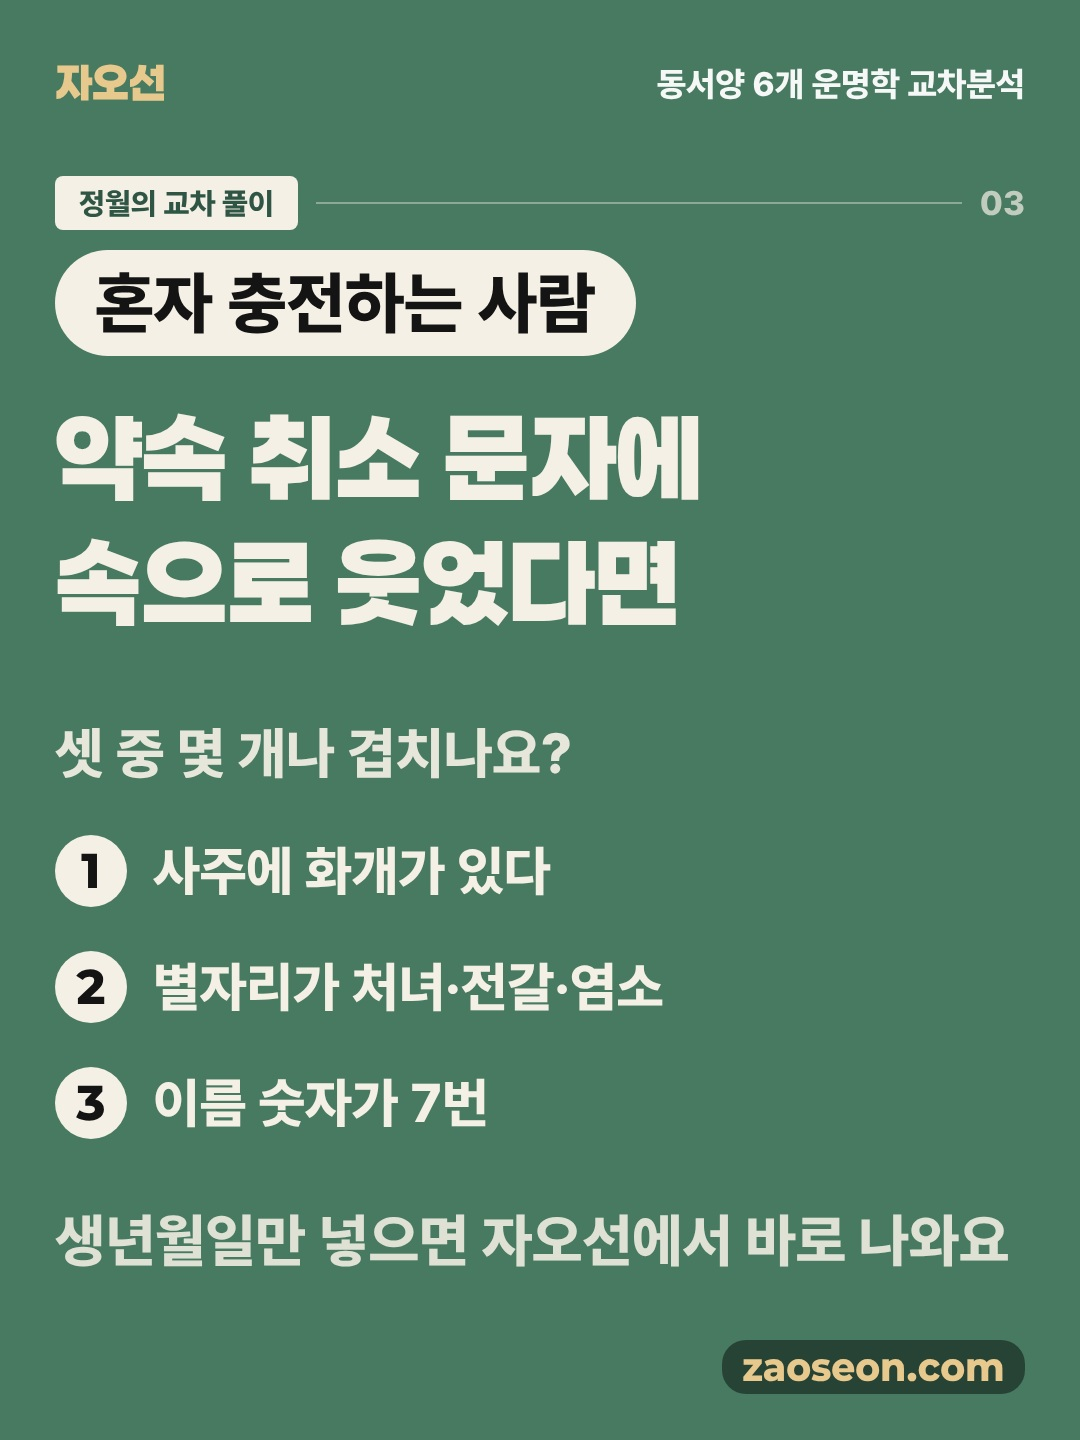
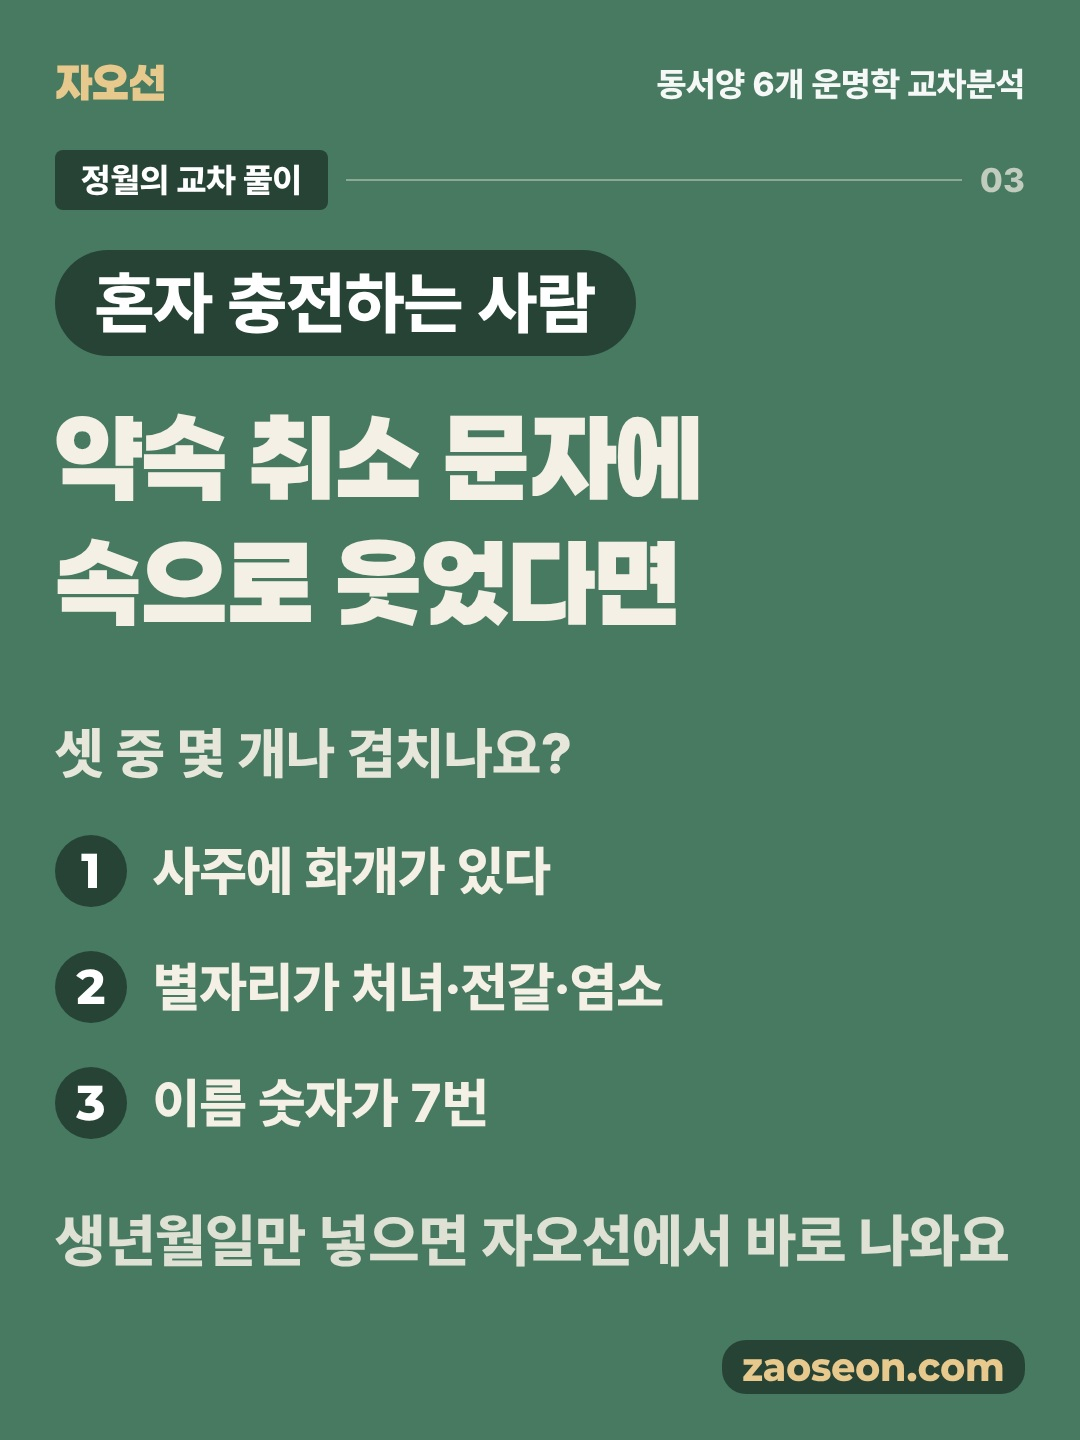
승인 카드 주소 갱신(색 강조·스하리 3단계 판)
Claude-Session: https://claude.ai/code/session_01FteCatzvvaHsxyBVK4nK62

Changed region(s): [[0.0306, 0.0938, 0.6111, 0.25], [0.0306, 0.5625, 0.1222, 0.8125], [0.8861, 0.0938, 0.9472, 0.1562]]

diff --git a/2026-igcover/build.py b/2026-igcover/build.py
@@ -64,7 +64,17 @@ def page(c, pal):
     hx = lambda v: v if isinstance(v, str) else "#%02X%02X%02X" % tuple(v)   # Ctx 는 RGB 튜플을 준다
     bg, fg, acc = hx(X.bg), hx(X.fg), hx(X.acc)
     pill_bg, pill_fg = hx(X.pill), hx(X.pillfg)
-    sub_c = acc if contrast(acc, bg) >= 3.0 else fg
+    # 하단 zaoseon.com 배지 색을 계산해서 내준다 — 눈대중으로 비슷한 색을 쓰지 않는다.
+    # brand_frame 이 어두운 판에 rgba(0,0,0,.45), 밝은 판에 rgba(255,255,255,.55) 를 얹는다.
+    def 하단배지색():
+        r, g, b = (int(bg[i:i+2], 16) for i in (1, 3, 5))
+        a, 위 = (.45, 0) if lum(bg) < .38 else (.55, 255)
+        return "#%02X%02X%02X" % tuple(round(v * (1 - a) + 위 * a) for v in (r, g, b))
+    if c.get("accent") == "하단배지": acc = 하단배지색()   # 하단 zaoseon.com 배지와 같은 색
+    elif c.get("accent"): acc = c["accent"]
+    if c.get("강조글자") == "하단배지": sub_c = 하단배지색()
+    elif c.get("강조글자"): sub_c = hx(c["강조글자"])
+    else: sub_c = acc if contrast(acc, bg) >= 3.0 else fg
 
     tz = Z["제목"]; bz = Z["본문·선택지"]
     LY0 = c.get("layout", "L1")
@@ -136,8 +146,10 @@ def page(c, pal):
         for l in c.get("subs", []):
             블록.append(("sub", l, ss0, int(ss0 * 1.5), 30))
     if c.get("items"):
-        블록.append(("items" if LY != "L8" else "numlist", c["items"], 0,
-                     118 if LY != "L8" else 90 * len(c["items"]) + 26 * (len(c["items"]) - 1), 30))
+        n_ = len(c["items"])
+        종류 = {"L8": "numlist", "L5": "steplist"}.get(LY, "items")
+        높이 = {"numlist": 90 * n_ + 26 * (n_ - 1), "steplist": 86 * n_ + 20 * (n_ - 1)}.get(종류, 118)
+        블록.append((종류, c["items"], 0, 높이, 30))
     if not c.get("subs_first"):
         for l in c.get("subs", []):
             블록.append(("sub", l, ss0, int(ss0 * 1.5), 0))
@@ -154,7 +166,9 @@ def page(c, pal):
         if kind == "big":
             parts.append(f'<div data-fit="1" data-min="110" style="position:absolute;left:{bz[0]}px;top:{y}px;'
                          f'width:{wmax}px;font-family:{K.D};font-weight:900;font-size:{size}px;line-height:1.05;'
-                         f'color:{sub_c};white-space:nowrap;text-align:{align}">{val}</div>')
+                         f'color:{sub_c};white-space:nowrap;text-align:{align}">'
+                         + (val.replace(c["big_hl"], f'<span style="color:{c["big_color"]}">{c["big_hl"]}</span>', 1)
+                            if c.get("big_hl") else val) + '</div>')
         elif kind == "numlist":                       # L8 번호 리스트형 — 저장을 부른다
             ns = 54
             rows = "".join(
@@ -166,6 +180,17 @@ def page(c, pal):
                 f'line-height:1.3;white-space:nowrap" data-fit="1" data-min="44" data-room="{wmax-98}">{t}</div></div>' for i, t in enumerate(val))
             parts.append(f'<div style="position:absolute;left:{bz[0]}px;top:{y}px;width:{wmax}px;'
                          f'display:flex;flex-direction:column;gap:26px">{rows}</div>')
+        elif kind == "steplist":                      # L5 좌측 3줄형 — 차례가 있는 안내
+            rows = "".join(
+                f'<div style="display:flex;gap:22px;align-items:center;height:86px">'
+                f'<div style="flex:0 0 6px;height:62px;border-radius:3px;background:{sub_c}"></div>'
+                f'<div style="flex:0 0 auto;font-family:{K.D};font-weight:900;font-size:40px;color:{sub_c};'
+                f'line-height:1">{i+1}</div>'
+                f'<div data-fit="1" data-min="44" data-room="{wmax-96}" style="font-family:{K.B};'
+                f'font-weight:800;font-size:56px;color:{fg};line-height:1.3;white-space:nowrap">{t}</div></div>'
+                for i, t in enumerate(val))
+            parts.append(f'<div style="position:absolute;left:{bz[0]}px;top:{y}px;width:{wmax}px;'
+                         f'display:flex;flex-direction:column;gap:20px">{rows}</div>')
         elif kind == "items":
             n = len(val); g = 18
             cw = (wmax - g * (n - 1)) // n
@@ -185,10 +210,11 @@ def page(c, pal):
 
     if "M3" in c.get("method", "") and c.get("serial"):   # M3 연재 방식 하이라이트
         sz = Z["상단 라벨"]
-        parts.append(f'<div style="position:absolute;left:{sz[0]}px;right:{sz[0]}px;top:{sz[1]-74}px;'
+        parts.append(f'<div style="position:absolute;left:{sz[0]}px;right:{sz[0]}px;top:{sz[1]-100}px;'
                      f'display:flex;align-items:center;gap:18px;z-index:6">'
-                     f'<span style="background:{acc};color:{pill_fg};font-family:{K.B};font-weight:800;'
-                     f'font-size:30px;padding:12px 24px;border-radius:8px;line-height:1">{c["serial"][0]}</span>'
+                     f'<span style="background:{acc};color:{"#141414" if lum(acc)>.38 else "#fff"};'
+                     f'font-family:{K.B};font-weight:800;'
+                     f'font-size:34px;padding:13px 26px;border-radius:8px;line-height:1">{c["serial"][0]}</span>'
                      f'<span style="flex:1;height:2px;background:{fg};opacity:.4"></span>'
                      f'<span style="font-family:{K.B};font-weight:700;font-size:34px;color:{fg};opacity:.7">{c["serial"][1]}</span></div>')
 

diff --git a/pipeline/card_gate.py b/pipeline/card_gate.py
@@ -60,11 +60,23 @@ def before(c, channel="insta_carousel", prev=None, prev_faces=None, prev_layouts
         bad.append(f"판 '{c.get('pal')}' 이 assets/palettes/color_combos.json 에 없어요. 목록에서 고르세요.")
     else:
         쓸수있는색 = {v.upper() for v in P[c["pal"]]["colors"].values()}
+        if c.get("accent") and c["accent"] != "하단배지":
+            모든색 = {v.upper() for q in P.values() for v in (q.get("colors") or {}).values()}
+            모든색 |= {v.upper() for q in P.values() for v in (q.get("theme") or {}).values() if isinstance(v, str) and v.startswith("#")}
+            if c["accent"].upper() not in 모든색:
+                bad.append(f"강조색 {c['accent']} 가 승인된 판 어디에도 없어요. color_combos.json 에서 고르세요.")
+            elif c["accent"].upper() not in 쓸수있는색 and not c.get("강조색 까닭"):
+                bad.append(f"강조색 {c['accent']} 는 판 '{c['pal']}' 밖의 색이에요. 섞는 까닭을 \"강조색 까닭\" 에 적으세요.")
         for k in ("bg", "acc"):
             if c.get(k) and c[k].upper() not in 쓸수있는색:
                 bad.append(f"{k} {c[k]} 가 판 '{c['pal']}' 의 색이 아니에요. 판 안의 색만 쓰세요(섞지 않기).")
 
     # 2. 글자 색 대비 — 단색 판 + 흰 글자가 기본(대표 10/16), 안 되면 멈춘다
+    for _k, _sz in (("accent", c.get("kick_size", 68)), ("big_color", c.get("big_size", 240))):
+        if c.get(_k) and c[_k].startswith("#") and c.get("bg"):
+            _need = 3.0 if _sz >= 60 else 4.5      # WCAG: 큰 글자는 3.0
+            if contrast(c[_k], c["bg"]) < _need:
+                bad.append(f"{_k} {c[_k]} 가 바탕 {c['bg']} 에서 대비 {contrast(c[_k], c['bg']):.1f}:1 이라 안 보여요({_need} 이상).")
     if c.get("bg"):
         fg = "#FFFFFF" if lum(c["bg"]) < .38 else "#141414"
         if contrast(fg, c["bg"]) < 4.5:
